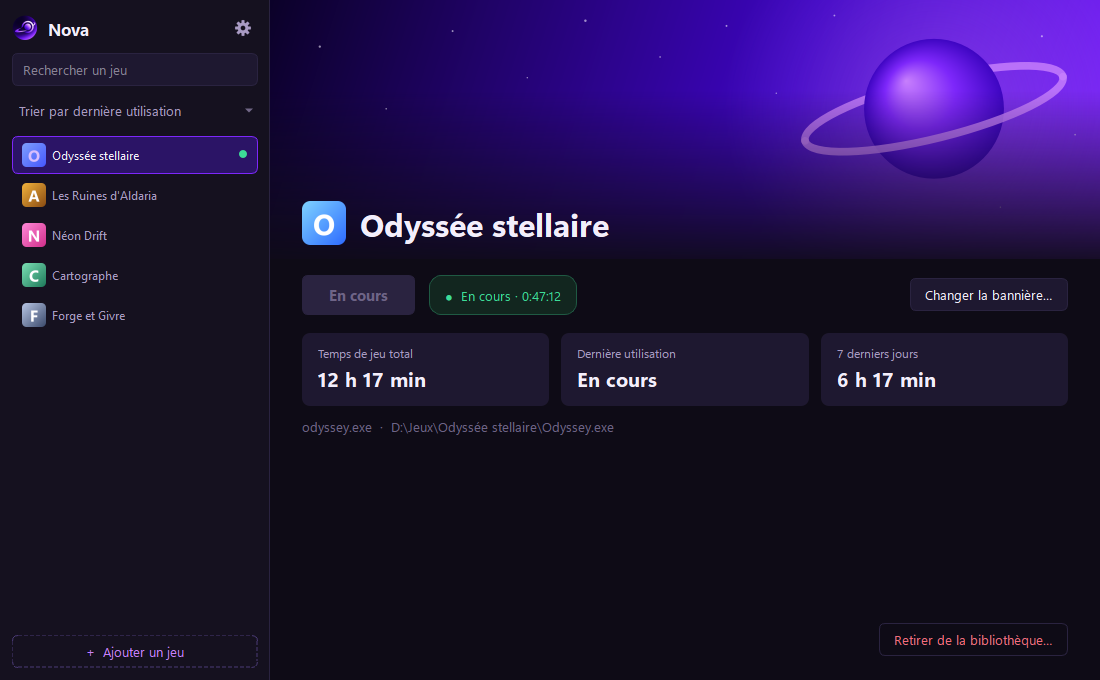
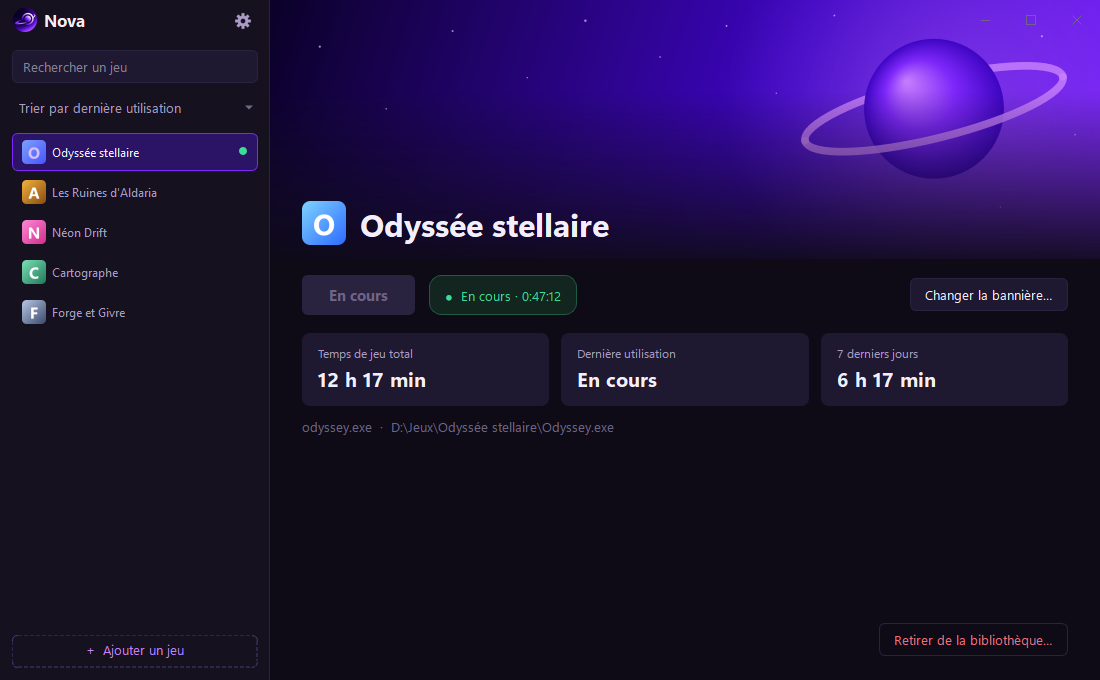
Passe en version 1.1.0 et met à jour les captures du README

diff --git a/src/nova/__init__.py b/src/nova/__init__.py
@@ -1,3 +1,3 @@
 """Nova : suivi du temps de jeu sous Windows."""
 
-__version__ = "1.0.0"
+__version__ = "1.1.0"
